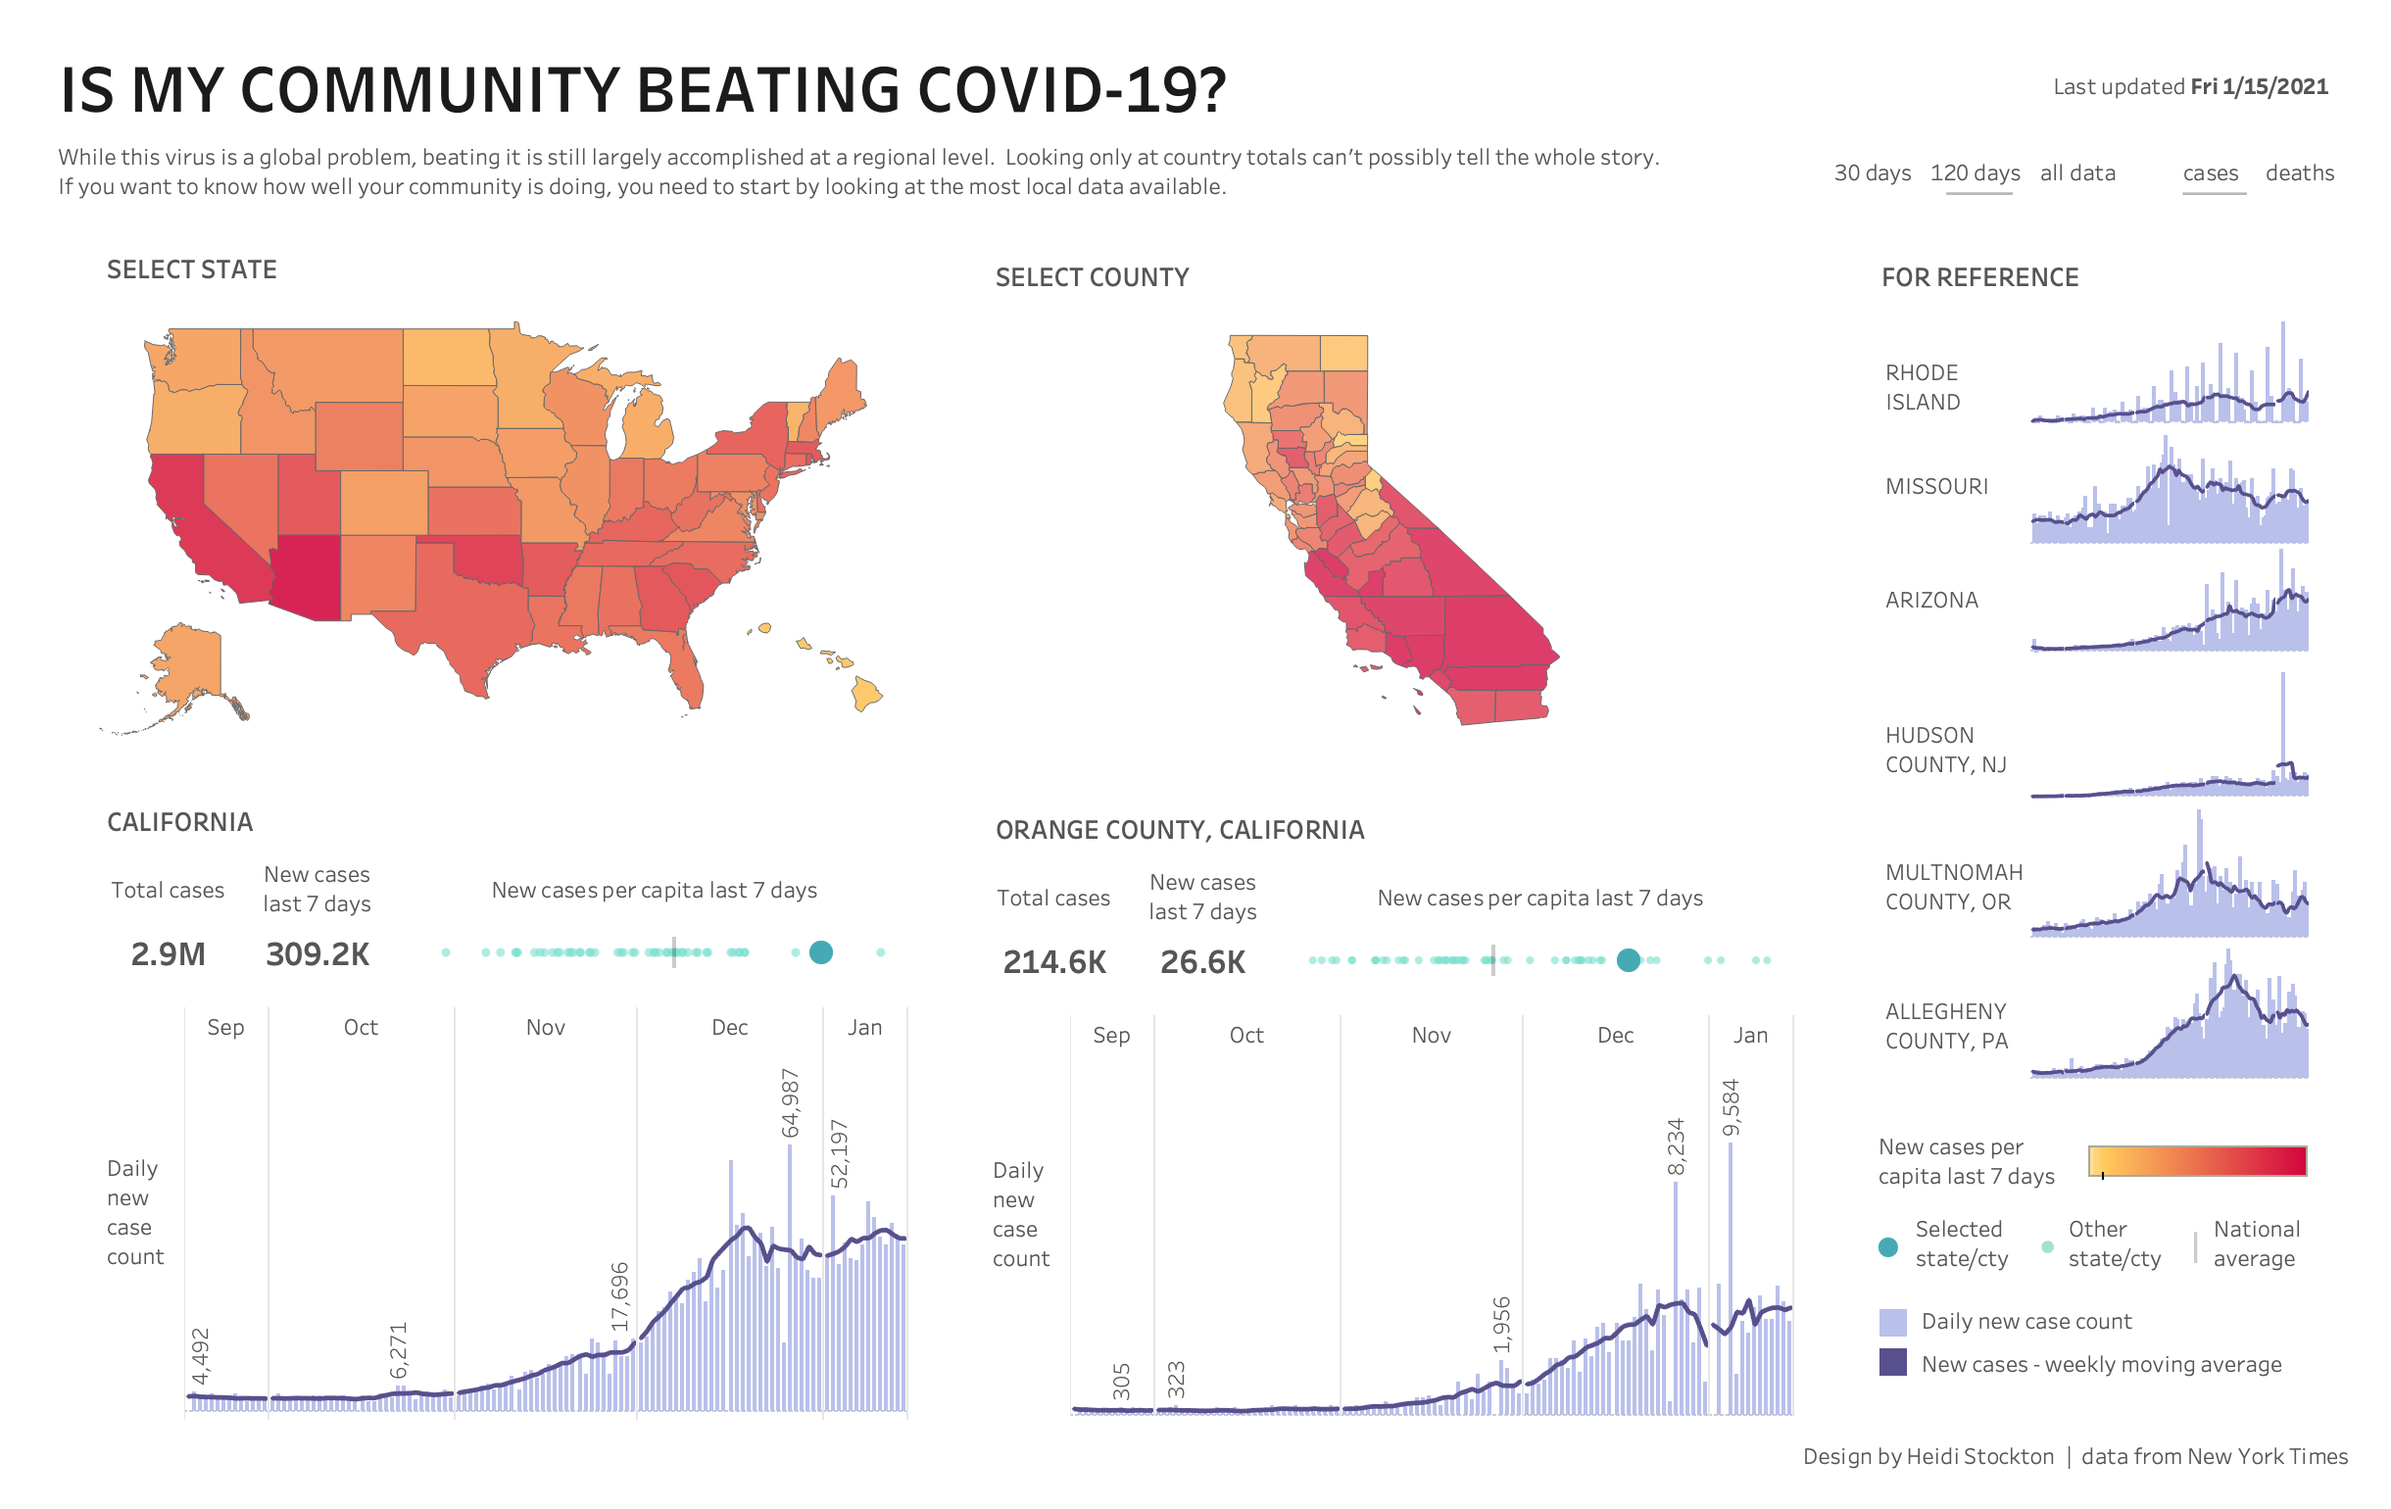
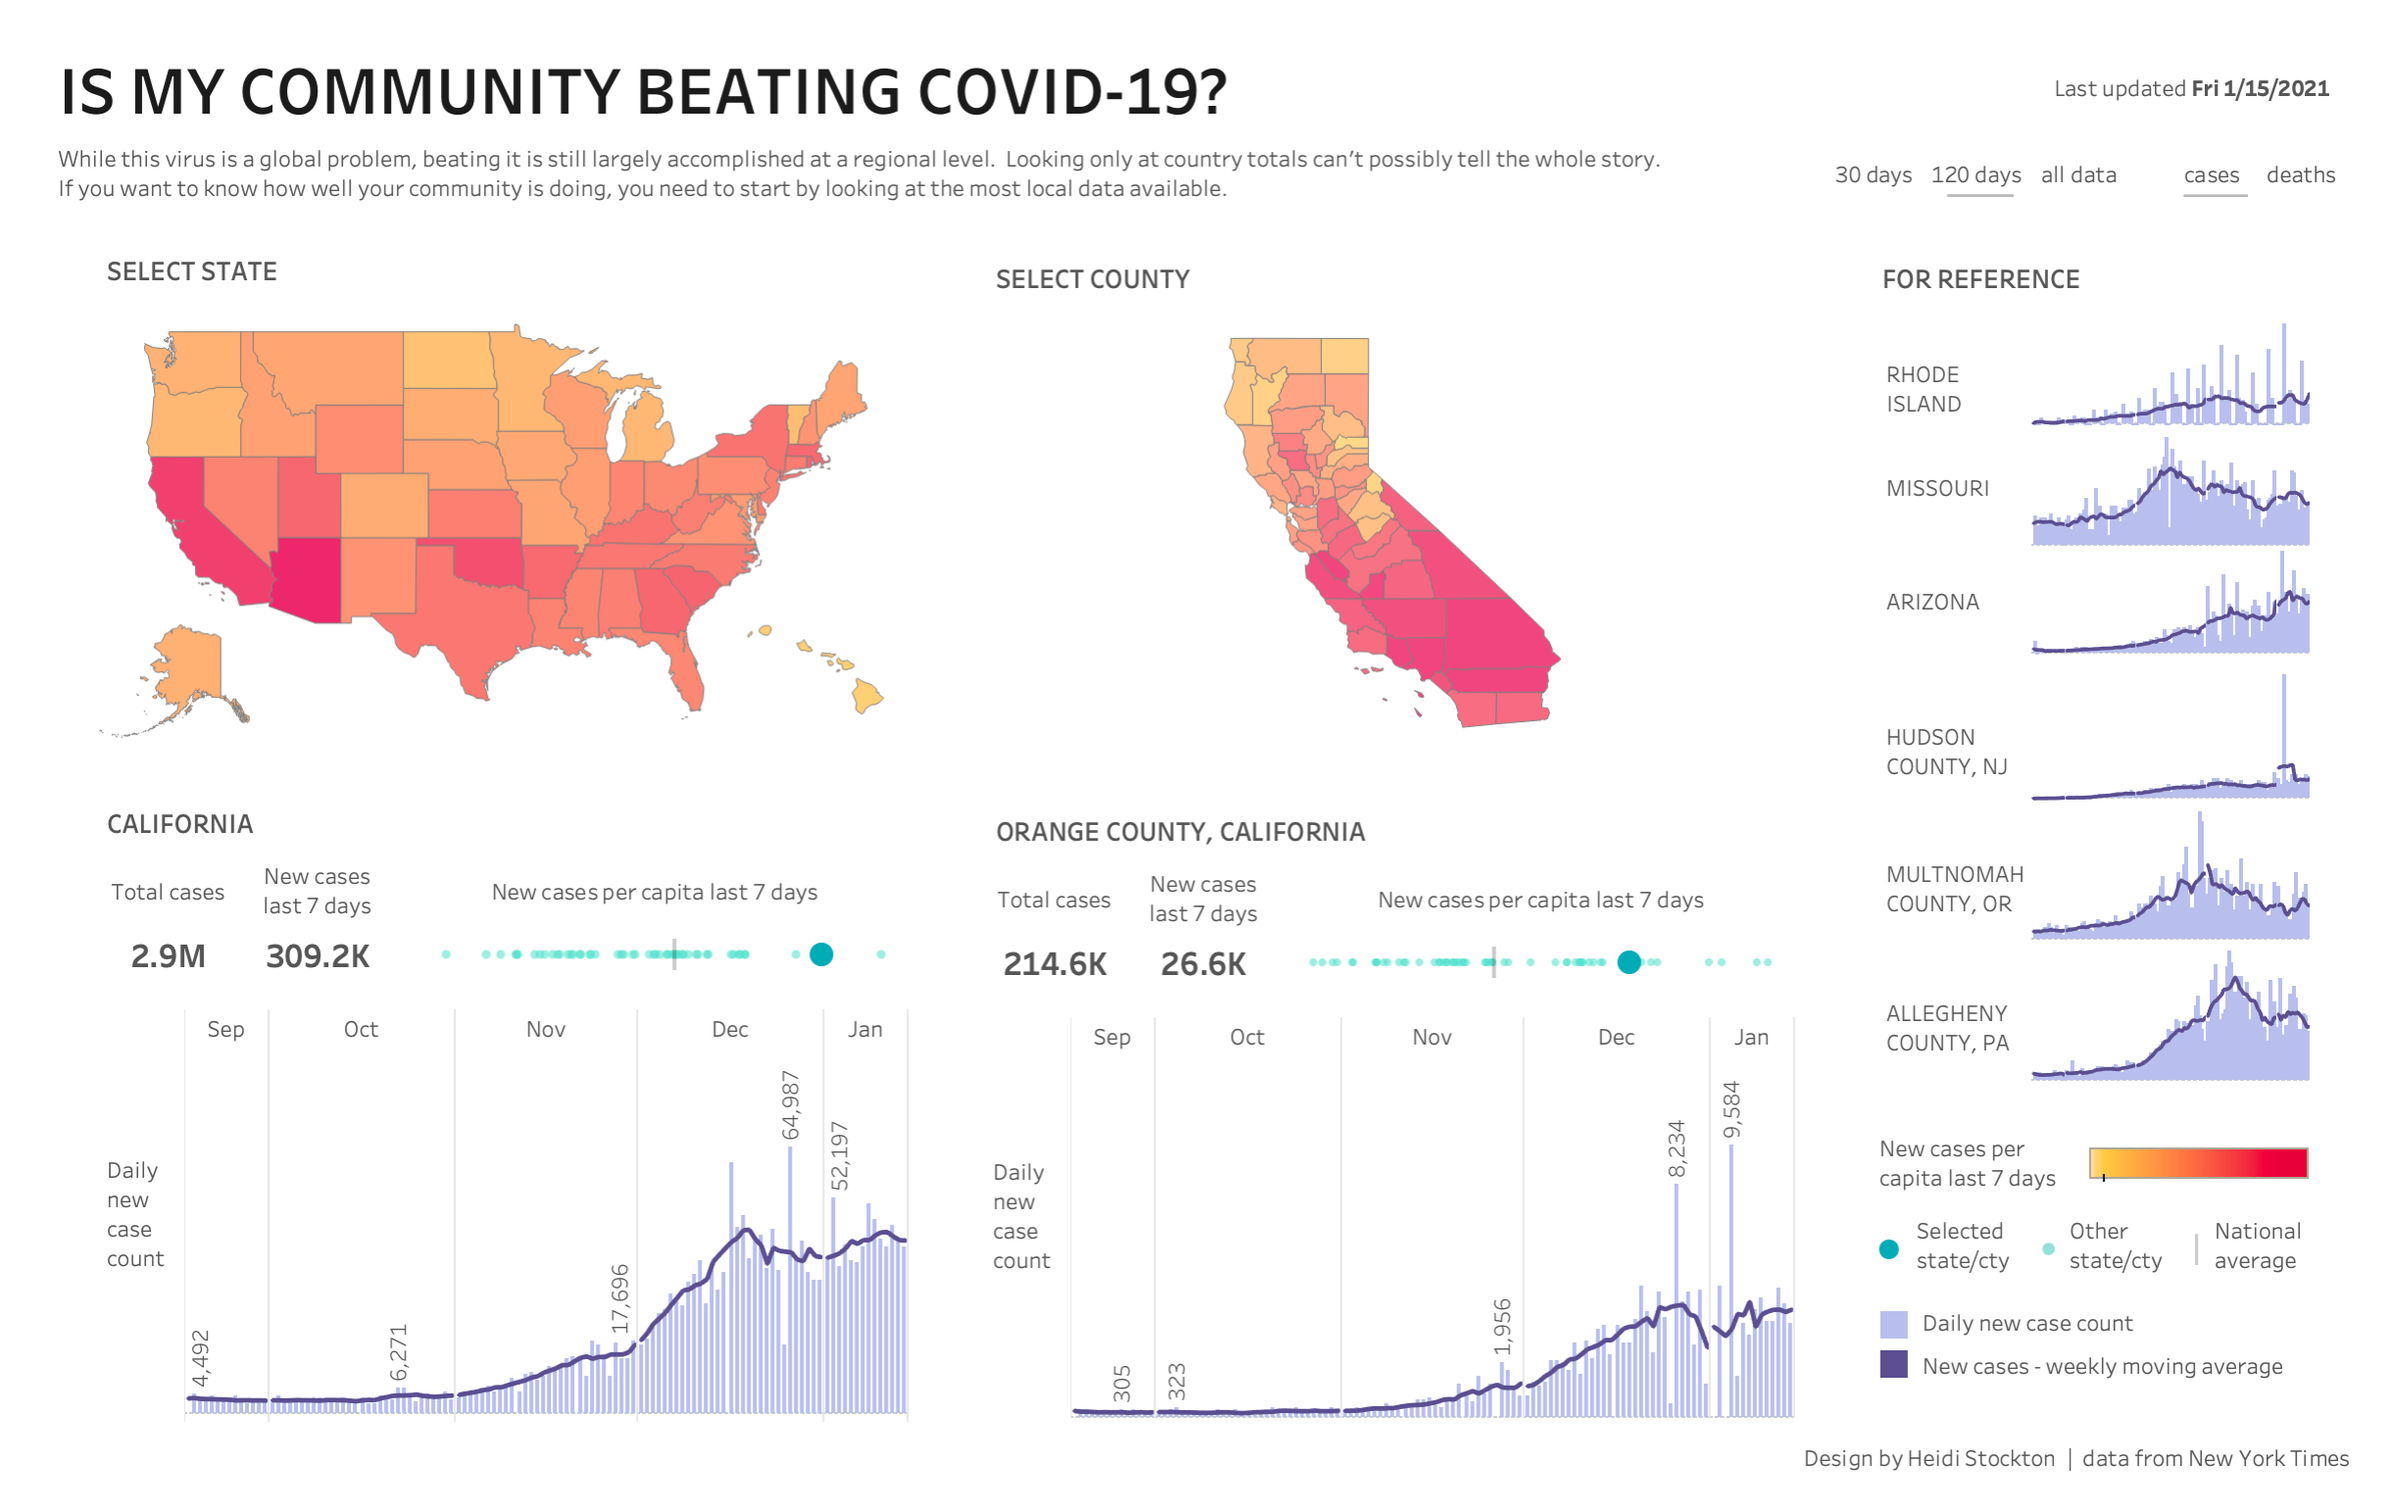
main: updating lightbox formatting and descriptions, updating colors in the Covid screenshot, updating fire and ice screenshot, adding new detail view for studies dashboard, updating background gradient

diff --git a/index.html b/index.html
@@ -42,7 +42,7 @@
   <link href="assets/vendor/bootstrap/css/bootstrap.min.css" rel="stylesheet">
   <link href="assets/vendor/bootstrap-icons/bootstrap-icons.css" rel="stylesheet">
   <link href="assets/vendor/boxicons/css/boxicons.min.css" rel="stylesheet">
-  <link href="assets/vendor/glightbox/css/glightbox.min.css" rel="stylesheet">
+  <link href="assets/vendor/glightbox/css/glightbox.css" rel="stylesheet">
   <link href="assets/vendor/swiper/swiper-bundle.min.css" rel="stylesheet">
 
   <!-- Template Main CSS File -->
@@ -169,7 +169,12 @@
               <p class="desc">What has the Nike Sport Research Lab been up to this quarter?</p>
               <p class="tech">Tableau, MySQL</p>
               <div class="portfolio-links">
-                <a href="images/NSRLStudies5.gif" data-gallery="portfolioGallery" class="portfolio-lightbox" title="NSRL Studies Dashboard"><i class="bx bx-plus"></i></a>
+                <a
+                  href="images/workSampleStudiesThreeViews.png"
+                  data-gallery="portfolioGallery"
+                  class="portfolio-lightbox"
+                  title="NSRL Studies Dashboard - iconography created in collaboration with Sara Mostafavi"
+                ><i class="bx bx-plus"></i></a>
               </div>
             </div>
           </div>
@@ -183,7 +188,12 @@
               <p class="desc">Tracking sourcing strategy against the incoming demand signal</p>
               <p class="tech">Tableau, Snowflake</p>
               <div class="portfolio-links">
-                <a href="images/workSampleSourcedDemand.png" data-gallery="portfolioGallery" class="portfolio-lightbox" title="Sourced Demand"><i class="bx bx-plus"></i></a>
+                <a
+                  href="images/workSampleSourcedDemand.png"
+                  data-gallery="portfolioGallery"
+                  class="portfolio-lightbox"
+                  title="Sourced Demand - made possible by the data wizardry of Sergey Lyashenko"
+                ><i class="bx bx-plus"></i></a>
               </div>
             </div>
           </div>
@@ -198,7 +208,13 @@
                 they belong to within a large organization</p>
               <p class="tech">D3.js, Bootstrap, Javascript, Python, HTML, CSS</p>
               <div class="portfolio-links">
-                <a href="images/workSampleOrgChart.png" data-gallery="portfolioGallery" class="portfolio-lightbox" title="Org Chart Explorer"><i class="bx bx-plus"></i></a>
+                <a
+                  href="images/workSampleOrgChart.png"
+                  data-gallery="portfolioGallery"
+                  class="portfolio-lightbox"
+                  title="Org Chart Explorer - thanks to Brandon O'Brien for helping
+                  get this project off the ground"
+                ><i class="bx bx-plus"></i></a>
                 <a href="http://heidistockton.com/orgchart/"><i class="bx bx-link"></i></a>
               </div>
             </div>
@@ -230,7 +246,13 @@
                 are faring against the COVID-19 pandemic (refreshed weekly)</p>
               <p class="tech">Tableau, Tableau Prep</p>
               <div class="portfolio-links">
-                <a href="images/workSampleCovid.png" data-gallery="portfolioGallery" class="portfolio-lightbox" title="COVID-19 Case Tracker"><i class="bx bx-plus"></i></a>
+                <a
+                  href="images/workSampleCovid.png"
+                  data-gallery="portfolioGallery"
+                  class="portfolio-lightbox"
+                  title="COVID-19 Case Tracker - created to combat the misinformation
+                  that was rampant in the early days of the pandemic"
+                ><i class="bx bx-plus"></i></a>
                 <a href="https://public.tableau.com/profile/heidi.stockton#!/vizhome/COVID-19CaseTracker-USAbyCounty/CasesByStateAndCounty" target="_blank"><i class="bx bx-link"></i></a>
               </div>
             </div>
@@ -245,7 +267,15 @@
               <p class="desc">A look at some of the extreme weather happening in Portland, OR</p>
               <p class="tech">D3.js, Bootstrap, Javascript, Python, HTML, CSS</p>
               <div class="portfolio-links">
-                <a href="images/workSampleFireIce.png" data-gallery="portfolioGallery" class="portfolio-lightbox" title="Fire and Ice"><i class="bx bx-plus"></i></a>
+                <a
+                  href="images/workSampleFireIce.png"
+                  data-gallery="portfolioGallery"
+                  class="portfolio-lightbox"
+                  title="Fire and Ice - thanks to Glenn Handley for pointing out that
+                  the Eagle Creek fire happened the same year as the winter that I was
+                  wanting to illustrate (thus inspiring the name and overall direction
+                  of the viz)"
+                ><i class="bx bx-plus"></i></a>
                 <a href="http://heidistockton.com/fireandice/"><i class="bx bx-link"></i></a>
               </div>
             </div>
@@ -305,7 +335,13 @@
                 visiting the Sport Research Lab at Nike's WHQ</p>
               <p class="tech">Tableau</p>
               <div class="portfolio-links">
-                <a href="images/workSampleBaselineSQ.png" data-gallery="portfolioGallery" class="portfolio-lightbox" title="Baseline Assessment - a customized immediate-turnaround report for athletes visiting the Sport Research Lab"><i class="bx bx-plus"></i></a>
+                <a
+                  href="images/workSampleBaselineSQ.png"
+                  data-gallery="portfolioGallery"
+                  class="portfolio-lightbox"
+                  title="Baseline Assessment - in collaboration with Michael Showell"
+                >
+                <i class="bx bx-plus"></i></a>
               </div>
             </div>
           </div>
@@ -334,7 +370,12 @@
                 and behaviors pertaining to climate change</p>
               <p class="tech">Tableau, Python</p>
               <div class="portfolio-links">
-                <a href="images/workSampleClimate.png" data-gallery="portfolioGallery" class="portfolio-lightbox" title="ECAP Climate Change survey"><i class="bx bx-plus"></i></a>
+                <a
+                  href="images/workSampleClimate.png"
+                  data-gallery="portfolioGallery"
+                  class="portfolio-lightbox"
+                  title="ECAP Climate Change survey - for Luna Abadia, a truly inspiring young activist"
+                ><i class="bx bx-plus"></i></a>
               </div>
             </div>
           </div>

diff --git a/styles.css b/styles.css
@@ -149,7 +149,7 @@ and make sure the svg is still positioned well */
 # About Me
 --------------------------------------------------------------*/
 #aboutMe {
-  background-image: linear-gradient(#DEEDFF, #DEE2FF);
+  background-image: linear-gradient(#DEEEFF, #DEE1FF);
   padding: calc(7% + 10px) 12%;
   box-shadow: 0 0 5px #AAAAAA, 0 0 8px #D5D5D5;
 }
@@ -354,7 +354,7 @@ and make sure the svg is still positioned well */
 --------------------------------------------------------------*/
 
 #testimonial-carousel, .carousel-inner.heidis-carousel  {
-  background-image: linear-gradient(#DEEDFF, #DEE2FF);
+  background-image: linear-gradient(#DEEEFF, #DEE1FF);
   box-shadow: 0 0 5px #AAAAAA, 0 0 8px #D5D5D5;
   height: 330px;
 }
